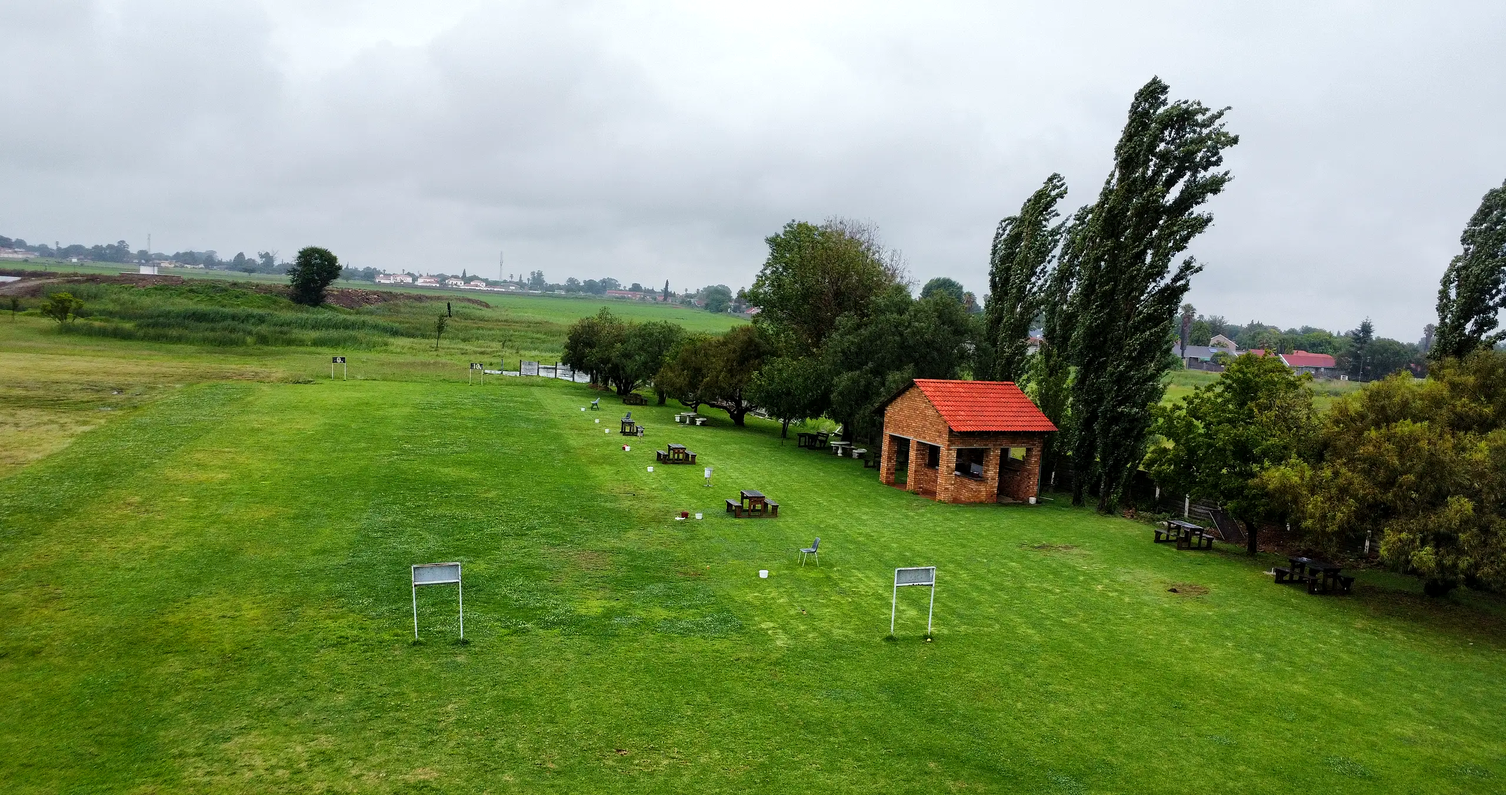
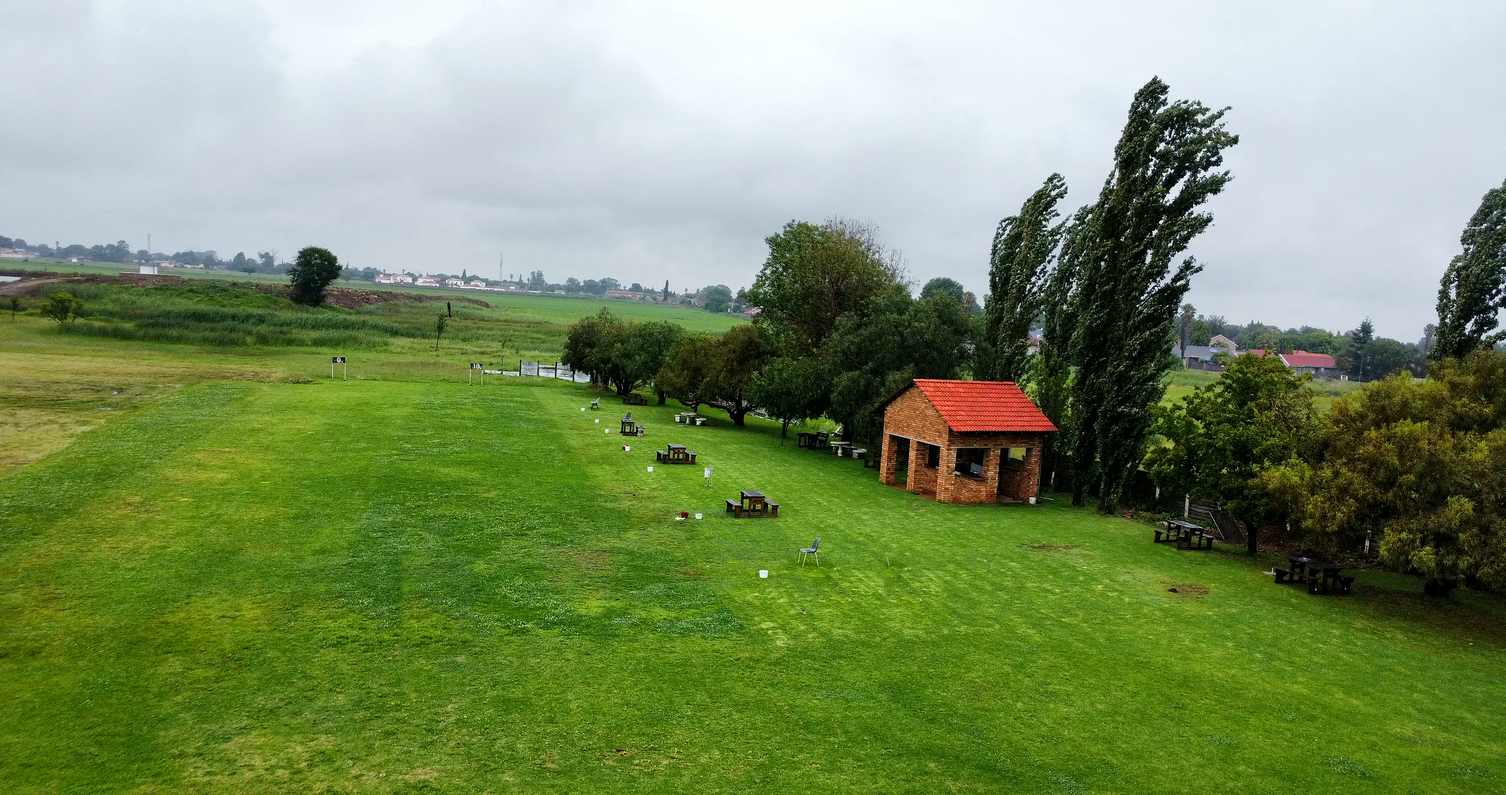
Game: photo's own boards edited out, our own 50-200 yardage boards, needle locks at the exact tap, Start Again resets mid-shot

Changed region(s): [[0.25, 0.6834, 0.3125, 0.8388], [0.5625, 0.6834, 0.625, 0.8388]]

diff --git a/js/range-game.js b/js/range-game.js
@@ -106,13 +106,19 @@
       g.fillStyle = c.hex; g.beginPath(); g.moveTo(top.x, top.y);
       g.quadraticCurveTo(top.x + fw * 0.5, top.y + fw * 0.12 + wave, top.x + fw, top.y + fw * 0.18);
       g.lineTo(top.x, top.y + fw * 0.42); g.closePath(); g.fill();
-      if (on || !aerial) { // distance chip
-        var label = c.dist + ' m', fs = Math.round(Math.max(10, 12 * unit));
-        g.font = '600 ' + fs + 'px Outfit, system-ui, sans-serif';
-        var tw = g.measureText(label).width + fs, lx = top.x - tw - 6 * unit, ly = top.y - 2;
-        g.fillStyle = 'rgba(7, 25, 16, .78)'; roundRect(lx, ly, tw, fs * 1.6, fs * 0.8); g.fill();
-        g.fillStyle = on ? '#FFE099' : '#FCF9F2'; g.fillText(label, lx + fs * 0.5, ly + fs * 1.15);
-      }
+      // our own yardage board left of each flag (user 27 Nov: the photo's boards were edited out): two posts, a white board, the number
+      g.globalAlpha = 1;
+      var L = c.lat - 11.5, R = c.lat - 4, tl = proj(c.dist, L, 6), br = proj(c.dist, R, 2.4);
+      var bw = br.x - tl.x, bh = br.y - tl.y, minH = 17 * unit;
+      if (bh < minH) { var k = minH / bh, cx = (tl.x + br.x) / 2, cy = (tl.y + br.y) / 2; bw *= k; bh = minH; tl = { x: cx - bw / 2, y: cy - bh / 2 }; br = { x: cx + bw / 2, y: cy + bh / 2 }; }
+      var pl = proj(c.dist, L + 0.6, 0), pr = proj(c.dist, R - 0.6, 0);
+      g.strokeStyle = '#e9ece8'; g.lineWidth = Math.max(1, bw * 0.05);
+      g.beginPath(); g.moveTo(tl.x + bw * 0.12, br.y); g.lineTo(tl.x + bw * 0.12, Math.max(pl.y, br.y)); g.moveTo(br.x - bw * 0.12, br.y); g.lineTo(br.x - bw * 0.12, Math.max(pr.y, br.y)); g.stroke();
+      g.fillStyle = 'rgba(0,0,0,.25)'; g.fillRect(tl.x + 1.5 * unit, tl.y + 1.5 * unit, bw, bh);
+      g.fillStyle = '#fbfaf5'; g.fillRect(tl.x, tl.y, bw, bh);
+      g.strokeStyle = on ? c.hex : '#26302a'; g.lineWidth = Math.max(1.2, bh * (on ? 0.12 : 0.07)); g.strokeRect(tl.x, tl.y, bw, bh);
+      g.fillStyle = '#0C2618'; g.font = '700 ' + Math.round(bh * 0.66) + 'px Oswald, Impact, sans-serif'; g.textAlign = 'center'; g.textBaseline = 'middle';
+      g.fillText(String(c.dist), tl.x + bw / 2, tl.y + bh * 0.54); g.textAlign = 'left'; g.textBaseline = 'alphabetic';
       g.restore();
     });
   }
@@ -290,8 +296,24 @@
   }
 
   // ---- game flow ----
-  function launch() {
+  // the needle is worked out from the clock, so the tap locks exactly where the needle was at that instant
+  var needleT0 = performance.now();
+  function needleAt(t) {
+    var pos = 50 + Math.sin((t - needleT0) / 1000 * 3.1) * 44;
+    needleSigned = (pos - 50) / 44; needleVal = Math.max(0.55, 1 - Math.abs(needleSigned) * 0.45);
+    if (powerNeedle) powerNeedle.style.left = pos.toFixed(2) + '%';
+    if (powerPct) { var pw = Math.round(Math.abs(needleSigned) * 30); powerPct.textContent = pw > 1 ? pw + '% short' : 'pure'; }
+  }
+  var resetTimer = null;
+  function swingLabel() { if (swingBtn) swingBtn.textContent = shot ? 'Start Again' : 'Swing Now (Lock Sweet Spot)'; }
+  function resetShot() { // user 27 Nov: start again at any moment, even mid-flight
+    clearTimeout(resetTimer); resetTimer = null; shot = null; setStep(1); swingLabel();
+    say('STEP UP TO THE TEE', 'Pick your club and swing when the needle is on the green.', 'CHOOSE YOUR CLUB', 'Pick a club, then swing when the needle is on the green.');
+    draw(); kick();
+  }
+  function launch(e) {
     if (shot) return;
+    needleAt(e && e.timeStamp ? e.timeStamp : performance.now());
     // user 27 Nov: a range never gives you extra; the sweet spot is the club's full distance, a miss either side falls short
     var c = CLUBS[activeClub], power = 1 - Math.abs(needleSigned) * 0.3, dist = Math.round(c.dist * power);
     var aim = aimLat(dist), drift = windMps * 0.85 + needleSigned * 4;
@@ -320,20 +342,14 @@
     if (pitWaCta) pitWaCta.href = 'https://wa.me/27824486870?text=' + encodeURIComponent("Hi EL'Vetties! I just scored " + totalScore +
       ' pts on your range game (' + sh.dist + 'm with the ' + c.name + ") and want to book a real bucket and a table at Sapele St!");
     windMps = Math.round((Math.random() * 14 - 7) * 10) / 10; aimLabel();
-    setTimeout(function () { shot = null; setStep(1); kick(); }, reduce ? 1800 : 2200);
+    resetTimer = setTimeout(function () { resetTimer = null; shot = null; setStep(1); swingLabel(); kick(); }, 2600);
   }
 
   // ---- loop: runs only while the stage is on screen ----
   var running = false, visible = false, last = 0;
   function frame(now) {
     var dt = Math.min(0.05, (now - (last || now)) / 1000); last = now; perfT += dt;
-    if (!reduce && !shot) {
-      needlePhase += dt * 3.1;
-      var pos = 50 + Math.sin(needlePhase) * 44;
-      needleSigned = (pos - 50) / 44; needleVal = Math.max(0.55, 1 - Math.abs(needleSigned) * 0.45);
-      if (powerNeedle) powerNeedle.style.left = pos.toFixed(1) + '%';
-      if (powerPct) { var pw = Math.round(Math.abs(needleSigned) * 30); powerPct.textContent = pw > 1 ? pw + '% short' : 'pure'; }
-    }
+    if (!shot) needleAt(now);
     if (shot) {
       shot.t += dt;
       if (shot.phase === 'swing' && shot.t >= 0.7) { shot.phase = 'flight'; if (window.EVSound) window.EVSound.playImpact('golf'); setStep(3); }
@@ -357,7 +373,7 @@
   });
   if ($('aimLeftBtn')) $('aimLeftBtn').addEventListener('click', function () { aimDeg = Math.max(-16, aimDeg - 4); aimLabel(); draw(); });
   if ($('aimRightBtn')) $('aimRightBtn').addEventListener('click', function () { aimDeg = Math.min(16, aimDeg + 4); aimLabel(); draw(); });
-  if (swingBtn) swingBtn.addEventListener('click', launch);
+  if (swingBtn) swingBtn.addEventListener('click', function (e) { if (shot) resetShot(); else { launch(e); swingLabel(); } });
   if (camBtn) camBtn.addEventListener('click', function () {
     aerial = !aerial; camBtn.setAttribute('aria-pressed', String(aerial)); camBtn.textContent = aerial ? 'Tee View' : 'Aerial View'; draw();
   });
@@ -368,7 +384,7 @@
   if (teePad) { // swipe up from the ball; only this small pad takes the finger, the rest of the stage scrolls the page
     var sy = null;
     teePad.addEventListener('pointerdown', function (e) { sy = e.clientY; teePad.setPointerCapture(e.pointerId); });
-    teePad.addEventListener('pointerup', function (e) { if (sy !== null && sy - e.clientY > 24) launch(); sy = null; });
+    teePad.addEventListener('pointerup', function (e) { if (sy !== null && sy - e.clientY > 24) { launch(e); swingLabel(); } sy = null; });
     teePad.addEventListener('keydown', function (e) { if (e.key === 'Enter' || e.key === ' ') { e.preventDefault(); launch(); } });
   }
 
